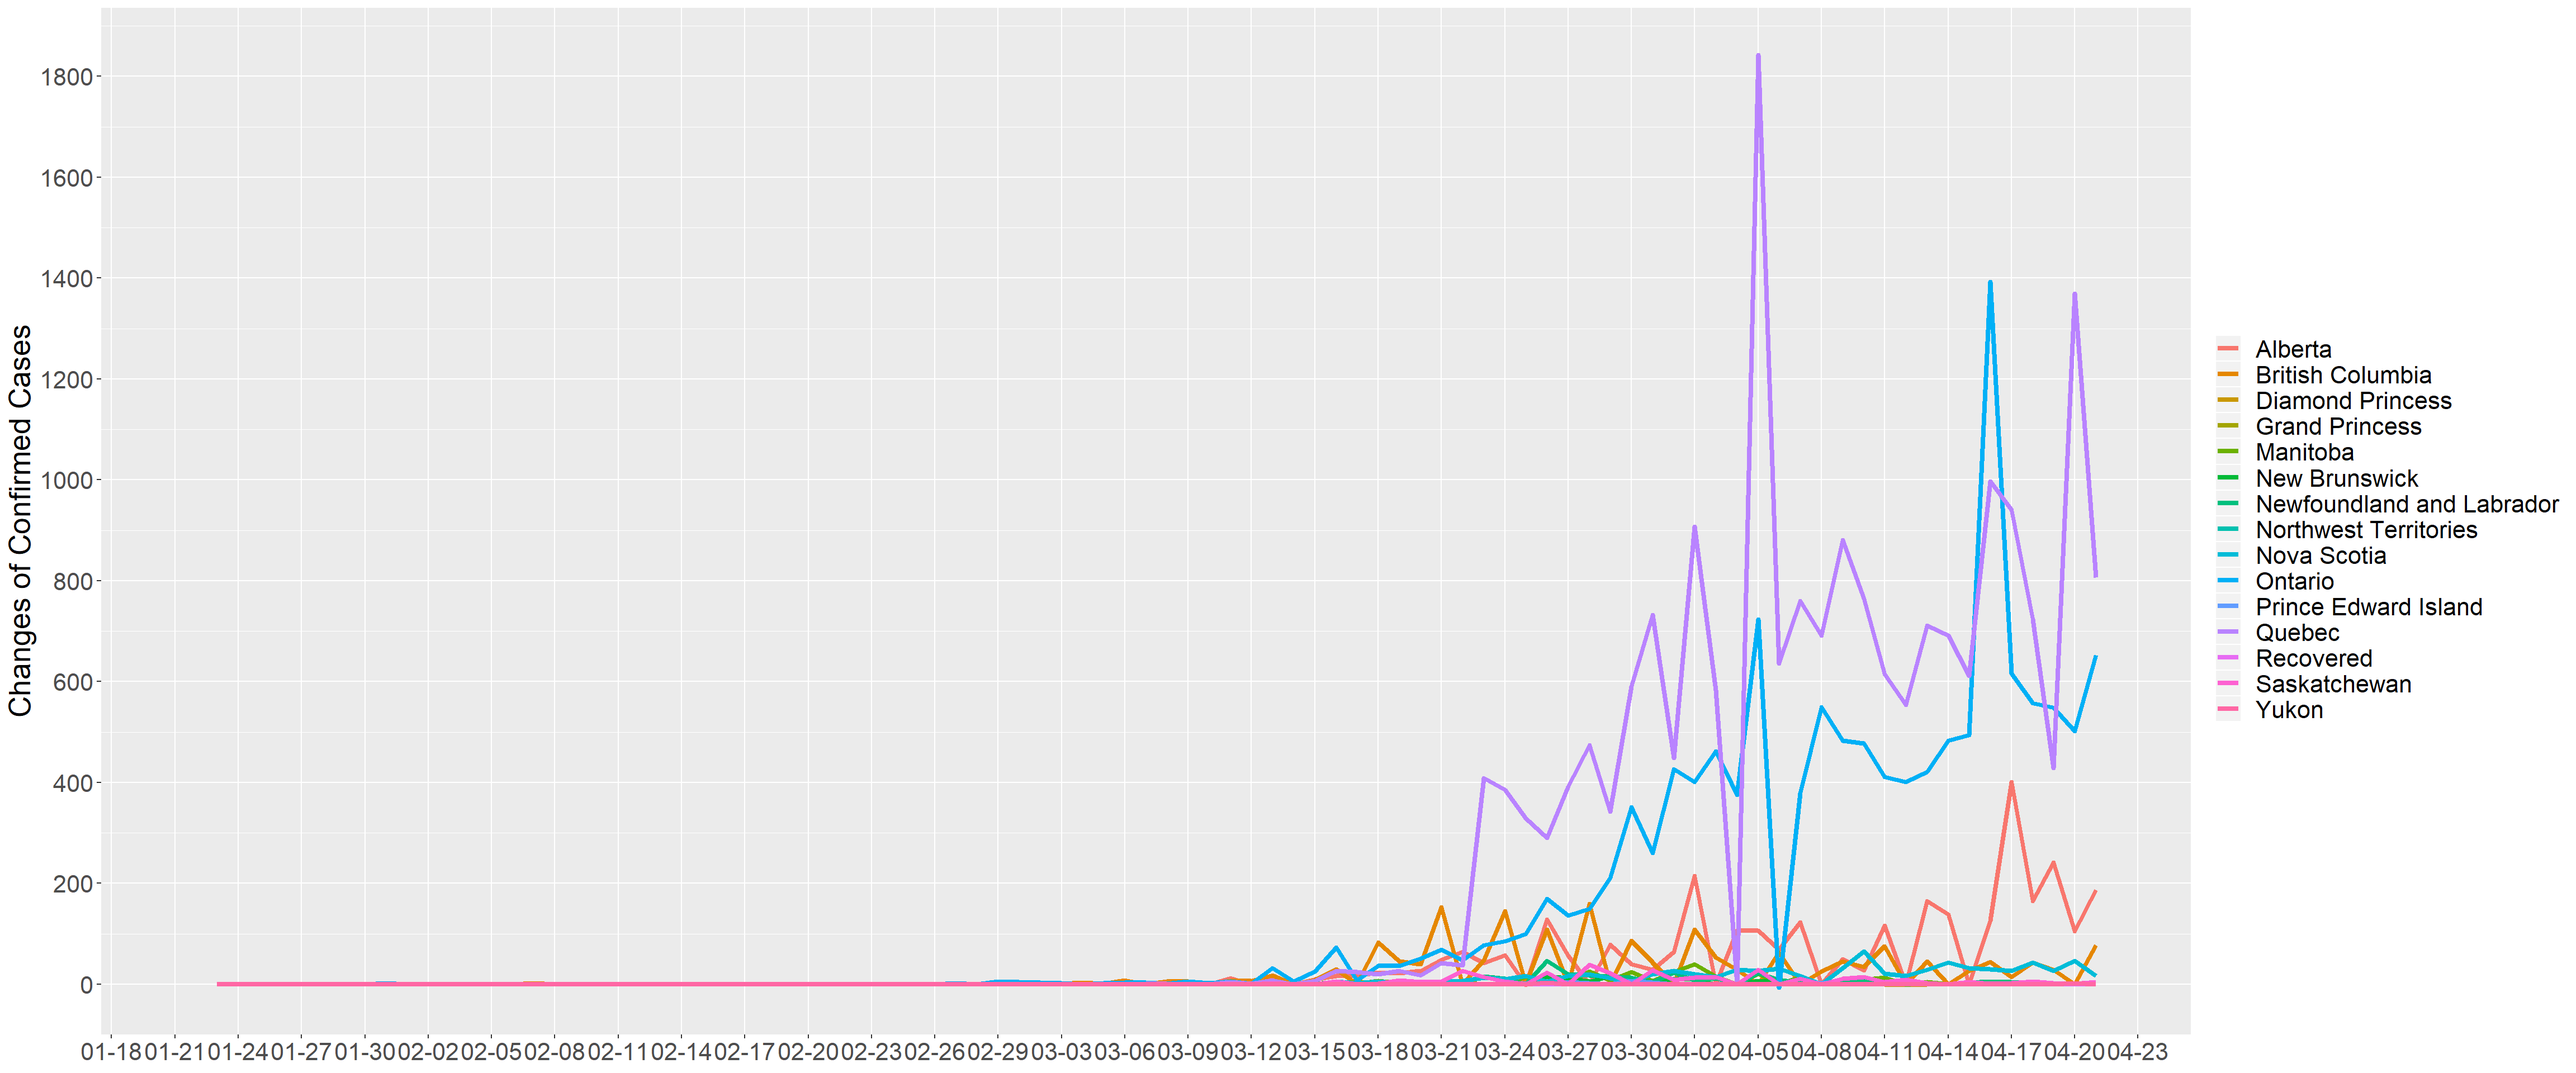
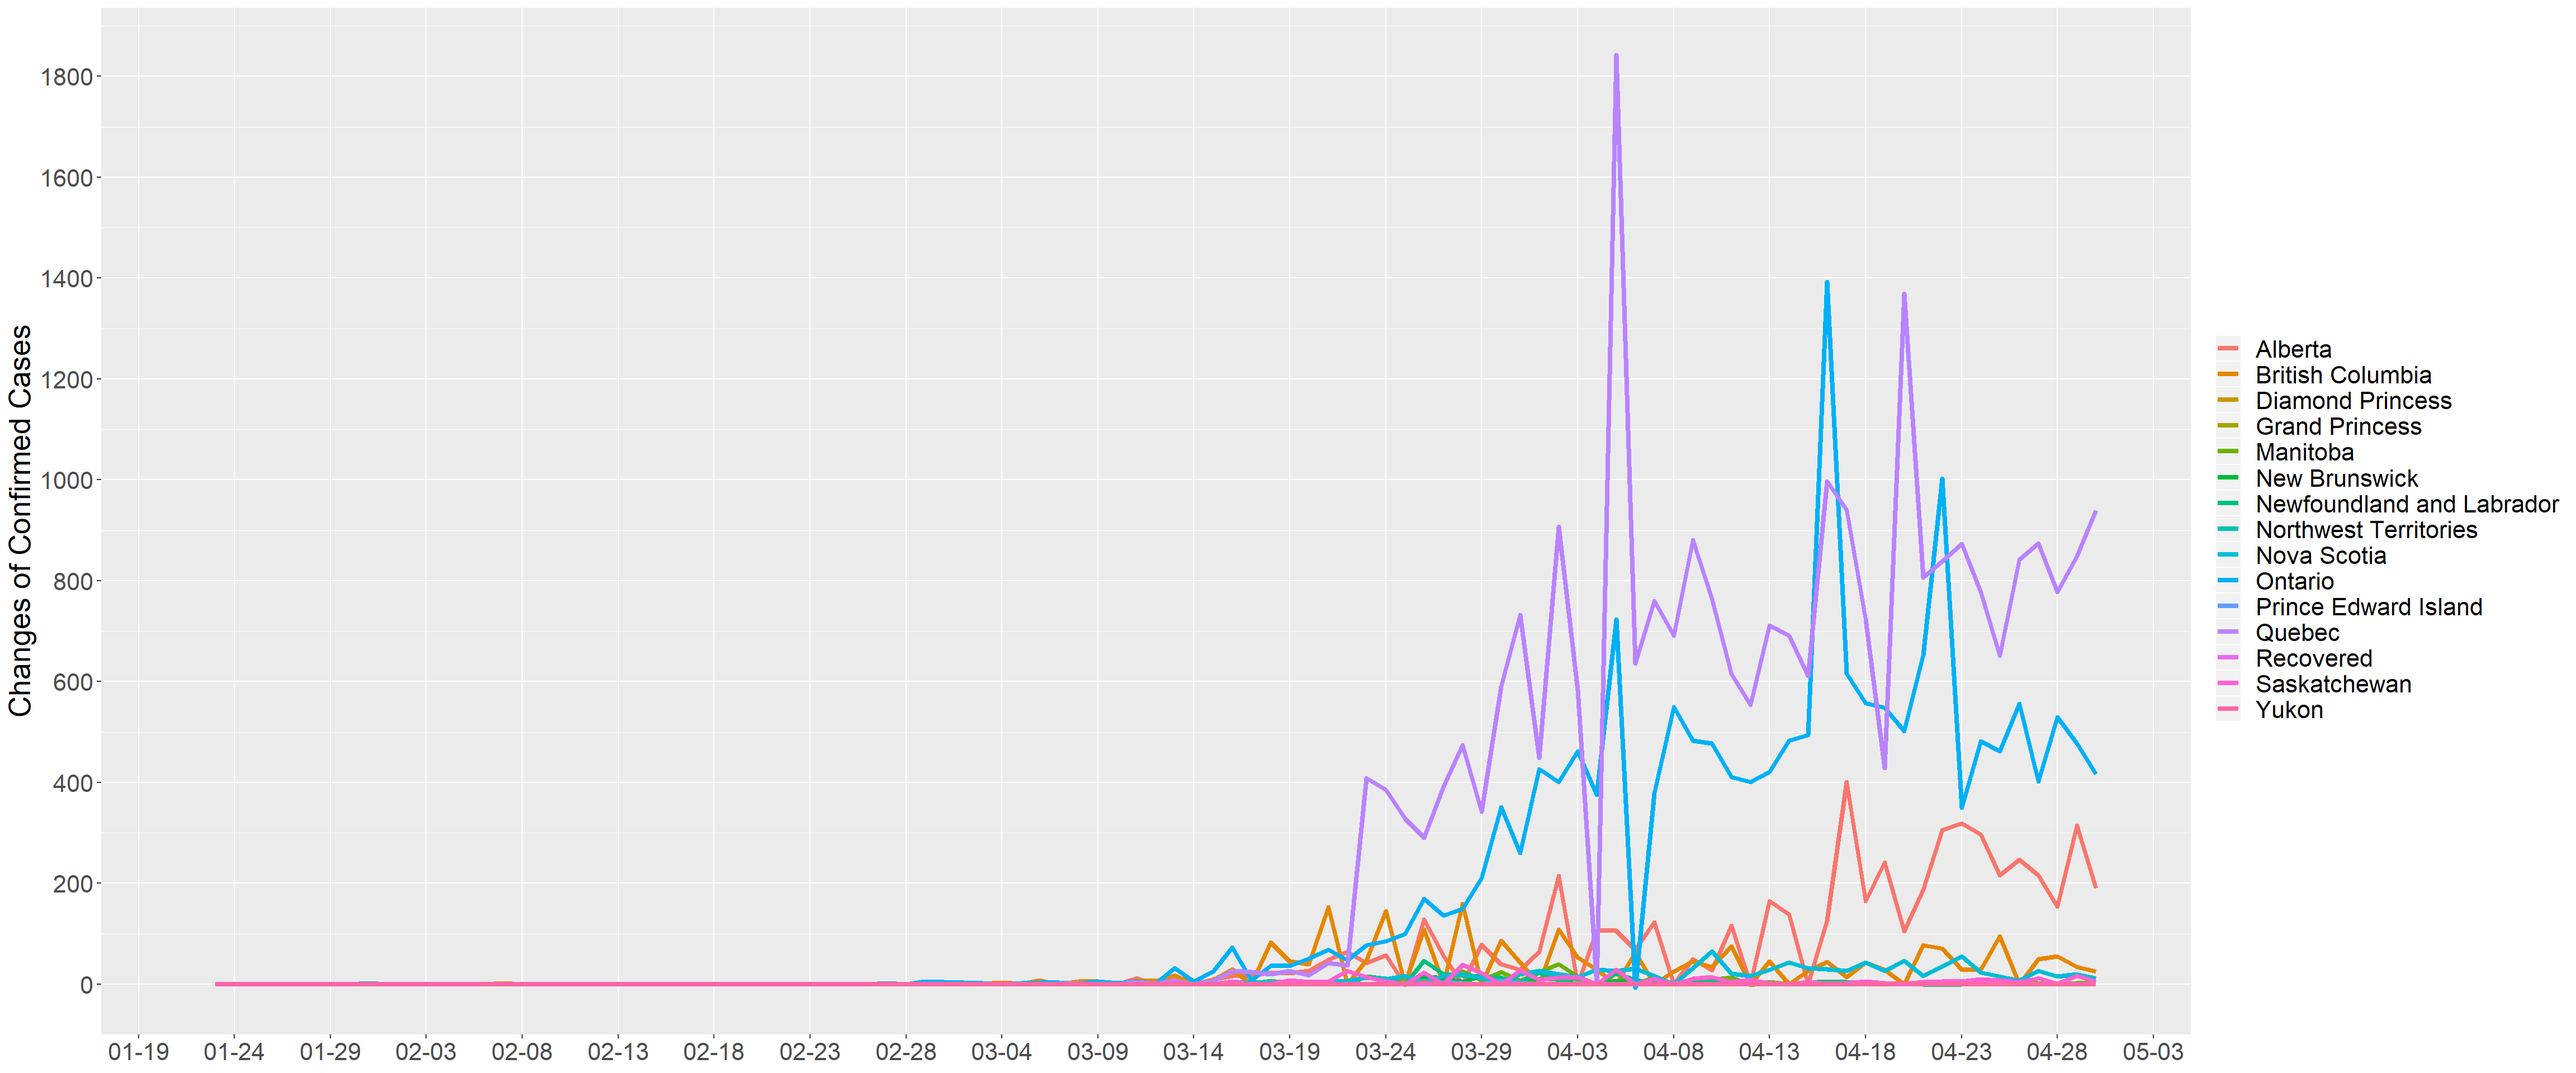
Updates May 1st

Changed region(s): [[0.4375, 0.125, 0.8125, 0.9375], [0.0312, 0.9688, 0.8438, 1.0]]

diff --git a/projects/COVID-19-EDA/COVID-19-EDA.html b/projects/COVID-19-EDA/COVID-19-EDA.html
@@ -10,7 +10,7 @@
 
 <meta name="author" content="Iris Jiang" />
 
-<meta name="date" content="2020-04-21" />
+<meta name="date" content="2020-05-01" />
 
 <title>COVID-19 Exploratory Data Analysis</title>
 
@@ -83,7 +83,7 @@ $(document).ready(function () {
     
     <div id="postamble" data-toggle="wy-nav-shift" class="status">
               <p class="author"><span class="glyphicon glyphicon-user"></span> Iris Jiang</p>
-                  <p class="date"><span class="glyphicon glyphicon-calendar"></span> April 21, 2020</p>
+                  <p class="date"><span class="glyphicon glyphicon-calendar"></span> May 01, 2020</p>
         </div>
 </div>
 
